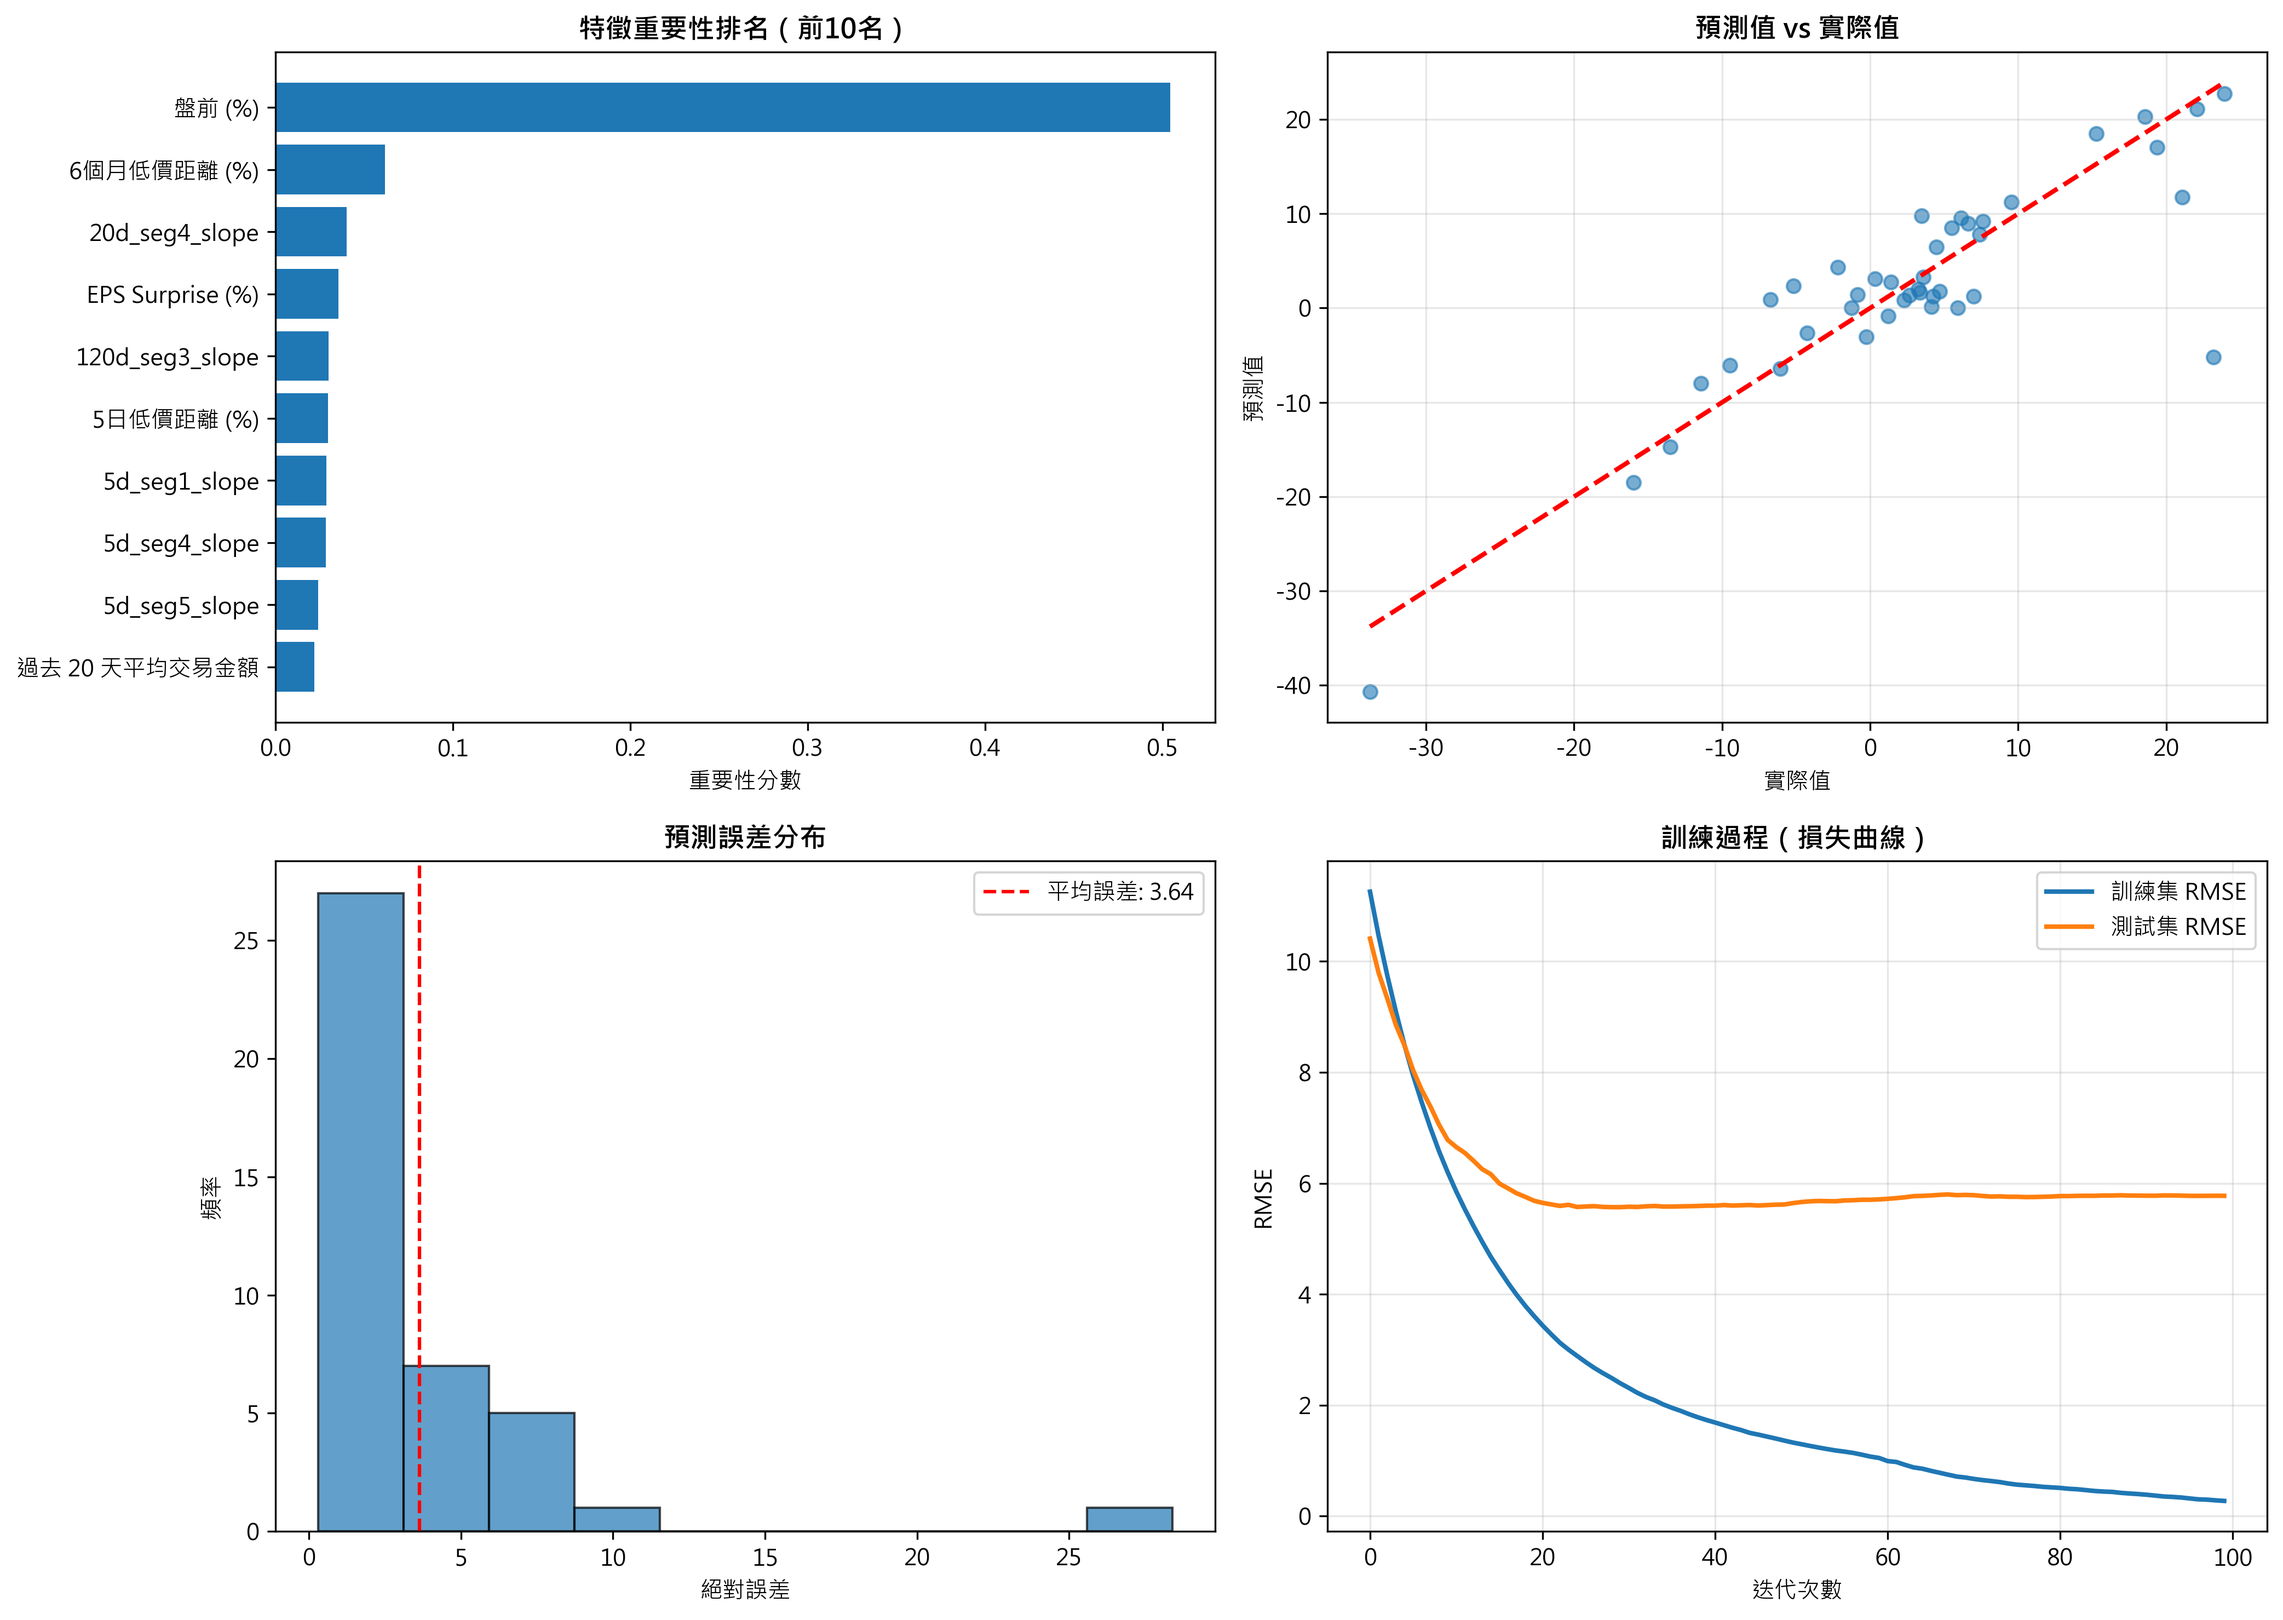
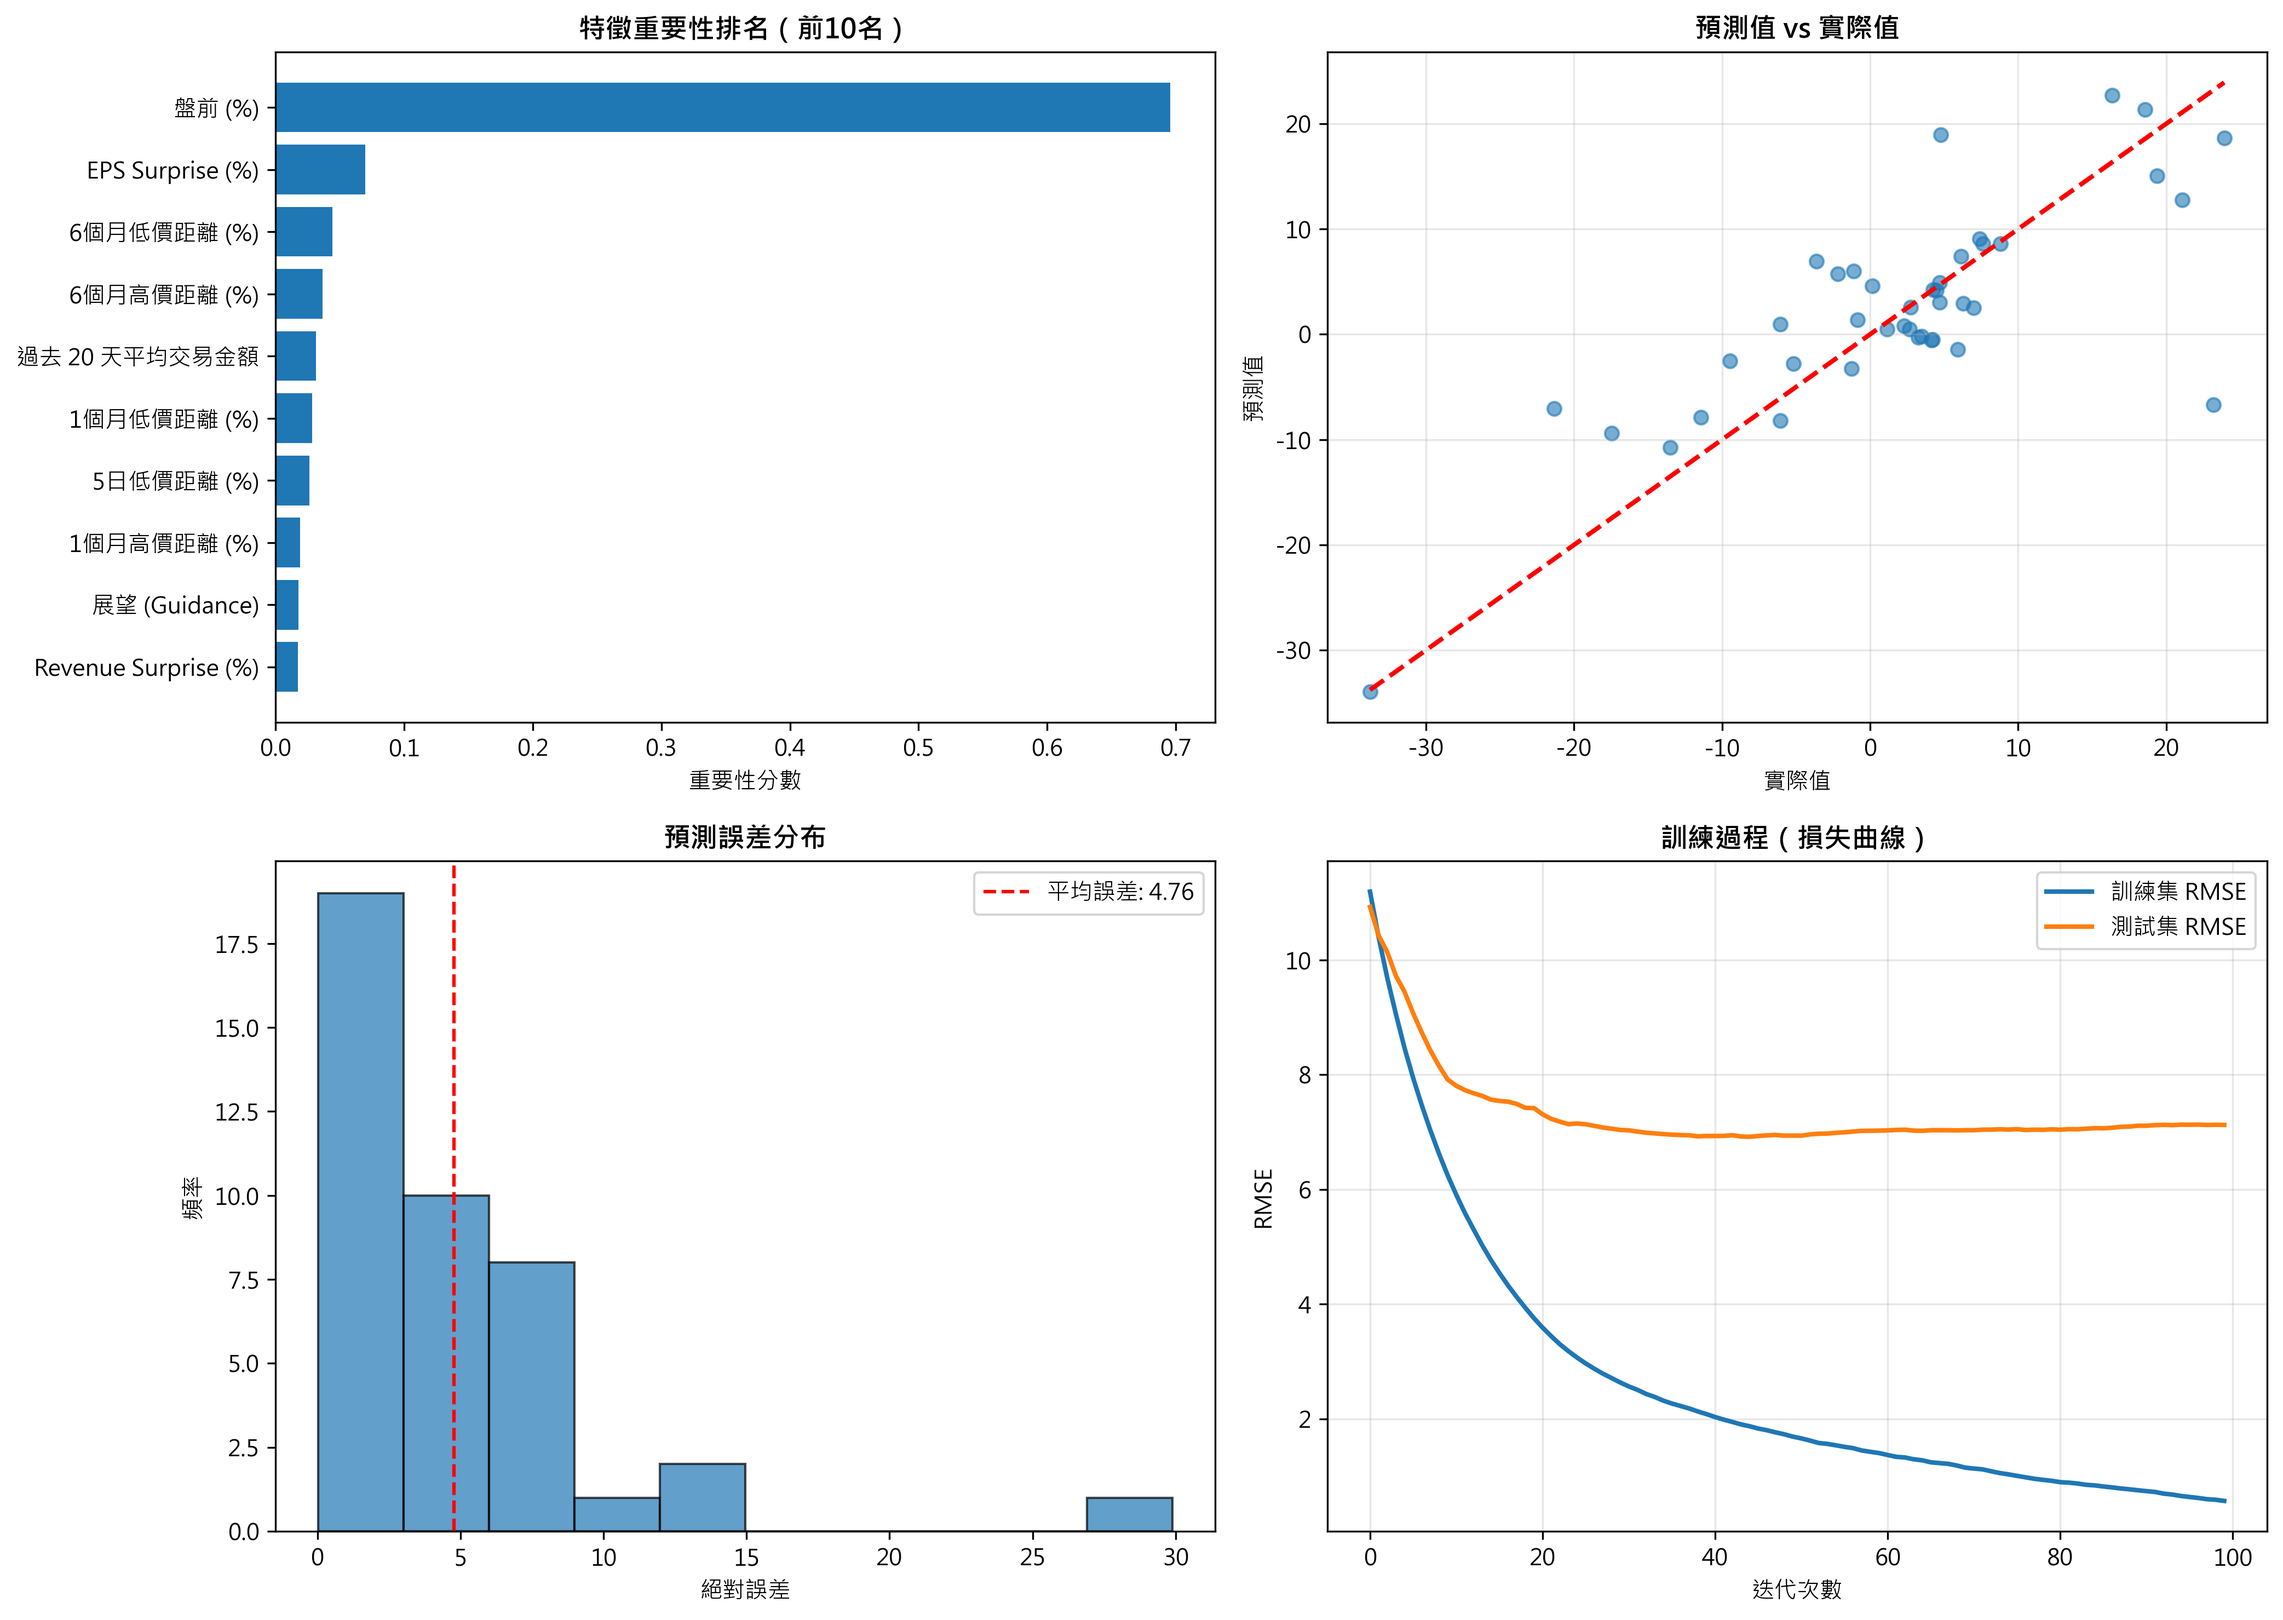
120天收盤價序列特徵使用與否的程式碼調整

diff --git a/train_qt_xgboost.py b/train_qt_xgboost.py
@@ -234,23 +234,30 @@ class QTModelTrainer:
         print("=" * 60)
         
         # === 新增: 過濾序列長度不足的資料 ===
-        if '120天收盤價序列' in self.data.columns:
-            print(f"\n✓ 檢查 120天收盤價序列長度...")
+        # 尋找 120天收盤價序列欄位（可能是 '120天收盤價序列' 或 '*120天收盤價序列'）
+        sequence_col = None
+        for col in self.data.columns:
+            if '120天收盤價序列' in str(col):
+                sequence_col = col
+                break
+        
+        if sequence_col and not str(sequence_col).startswith('*'):
+            print(f"\n✓ 檢查 {sequence_col} 長度...")
             
             original_count = len(self.data)
             invalid_indices = []
             
             for idx, row in self.data.iterrows():
-                if pd.isna(row['120天收盤價序列']):
+                if pd.isna(row[sequence_col]):
                     invalid_indices.append(idx)
                     continue
                 
                 # 解析序列
-                if isinstance(row['120天收盤價序列'], str):
-                    s = row['120天收盤價序列'].strip('[]').strip()
+                if isinstance(row[sequence_col], str):
+                    s = row[sequence_col].strip('[]').strip()
                     prices = [float(v.strip()) for v in s.split(',') if v.strip()]
                 else:
-                    prices = list(row['120天收盤價序列'])
+                    prices = list(row[sequence_col])
                 
                 # 檢查長度
                 if len(prices) < 120:
@@ -264,6 +271,8 @@ class QTModelTrainer:
                 print(f"  原始: {original_count} 筆 → 保留: {len(self.data)} 筆")
             else:
                 print(f"✓ 所有資料的序列長度都符合要求")
+        elif sequence_col and str(sequence_col).startswith('*'):
+            print(f"\n⚠ 發現 {sequence_col}（以 * 開頭），將忽略此欄位")
         
         # 分離特徵和目標變數
         # 目標欄位: 以 '#' 開頭
@@ -283,8 +292,15 @@ class QTModelTrainer:
         print(f"\n目標變數: {', '.join(self.target_columns)}")
         
         # === 新增: 從 120天收盤價序列提取15個斜率特徵 ===
-        if '120天收盤價序列' in self.data.columns:
-            print(f"\n✓ 發現 120天收盤價序列，開始提取趨勢斜率特徵...")
+        # 尋找 120天收盤價序列欄位（可能是 '120天收盤價序列' 或 '*120天收盤價序列'）
+        sequence_col = None
+        for col in self.data.columns:
+            if '120天收盤價序列' in str(col):
+                sequence_col = col
+                break
+        
+        if sequence_col and not str(sequence_col).startswith('*'):
+            print(f"\n✓ 發現 {sequence_col}，開始提取趨勢斜率特徵...")
             
             # 顯示提取結果
             print("\n" + "-" * 60)
@@ -296,7 +312,7 @@ class QTModelTrainer:
                 print(f"\n記錄 {idx + 1} ({row['公司代碼']}):")
                 
                 # 提取15個斜率特徵
-                slope_features = extract_trend_features_from_120d(row['120天收盤價序列'])
+                slope_features = extract_trend_features_from_120d(row[sequence_col])
                 slope_features_list.append(slope_features)
                 
                 # 顯示提取的特徵
@@ -322,6 +338,8 @@ class QTModelTrainer:
             print("\n" + "-" * 60)
             print(f"✓ 成功提取 {len(slope_df.columns)} 個趨勢斜率特徵")
             print("-" * 60)
+        elif sequence_col and str(sequence_col).startswith('*'):
+            print(f"\n⚠ 發現 {sequence_col}（以 * 開頭），跳過特徵提取")
         else:
             print("\n⚠ 警告: 找不到 '120天收盤價序列' 欄位")
         

diff --git a/predict_new_stocks.py b/predict_new_stocks.py
@@ -157,17 +157,36 @@ def preprocess_new_data(data, feature_columns):
         df = df.drop(columns=invalid_cols)
     
     # === 從 120天收盤價序列提取15個斜率特徵 ===
-    if '120天收盤價序列' in df.columns:
-        print(f"✓ 從 120天收盤價序列提取趨勢斜率特徵...")
+    # 尋找 120天收盤價序列欄位（可能是 '120天收盤價序列' 或 '*120天收盤價序列'）
+    sequence_col = None
+    for col in df.columns:
+        if '120天收盤價序列' in str(col):
+            sequence_col = col
+            break
+    
+    if sequence_col and not str(sequence_col).startswith('*'):
+        print(f"✓ 從 {sequence_col} 提取趨勢斜率特徵...")
         
         slope_features_list = []
         for idx, row in df.iterrows():
-            slope_features = extract_trend_features_from_120d(row['120天收盤價序列'])
+            slope_features = extract_trend_features_from_120d(row[sequence_col])
             slope_features_list.append(slope_features)
         
         slope_df = pd.DataFrame(slope_features_list)
         df = pd.concat([df, slope_df], axis=1)
         print(f"✓ 成功提取 {len(slope_df.columns)} 個趨勢斜率特徵")
+    elif sequence_col and str(sequence_col).startswith('*'):
+        print(f"⚠ 發現 {sequence_col}（以 * 開頭），跳過特徵提取")
+        print(f"  趨勢斜率特徵將全部設為 0")
+        
+        # 如果序列被忽略，需要手動創建斜率特徵（全部為0）
+        slope_feature_names = [
+            '120d_seg1_slope', '120d_seg2_slope', '120d_seg3_slope', '120d_seg4_slope', '120d_seg5_slope',
+            '20d_seg1_slope', '20d_seg2_slope', '20d_seg3_slope', '20d_seg4_slope', '20d_seg5_slope',
+            '5d_seg1_slope', '5d_seg2_slope', '5d_seg3_slope', '5d_seg4_slope', '5d_seg5_slope'
+        ]
+        for feat in slope_feature_names:
+            df[feat] = 0
     else:
         print(f"⚠ 警告: 找不到 '120天收盤價序列' 欄位")
         print(f"  趨勢斜率特徵將全部設為 0")
